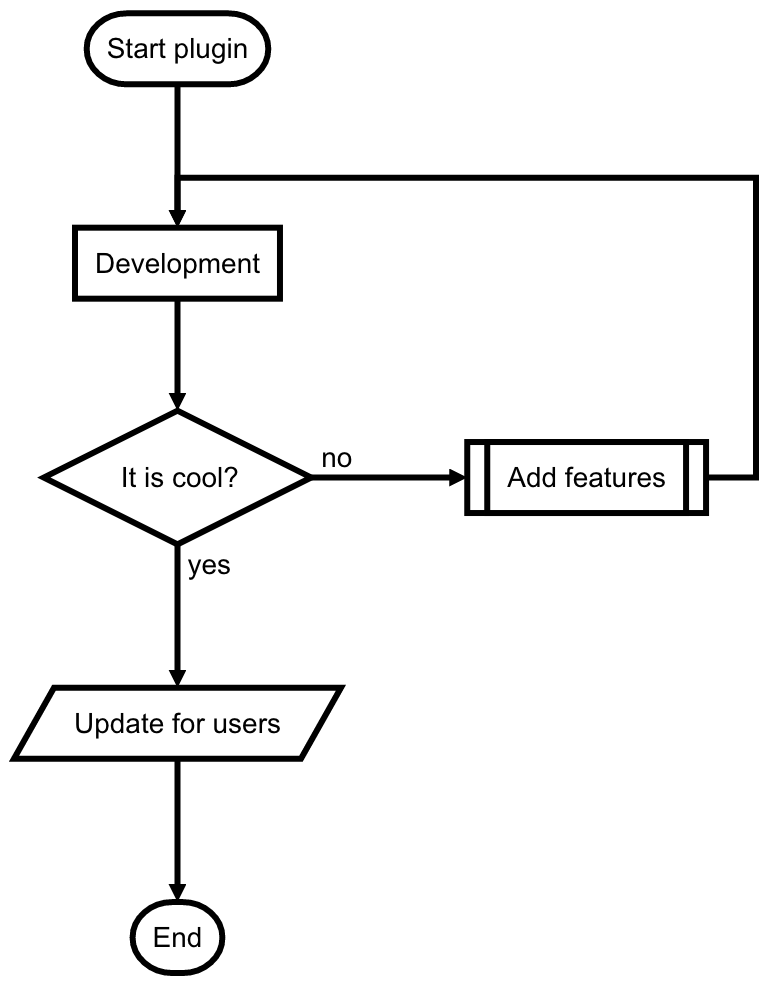
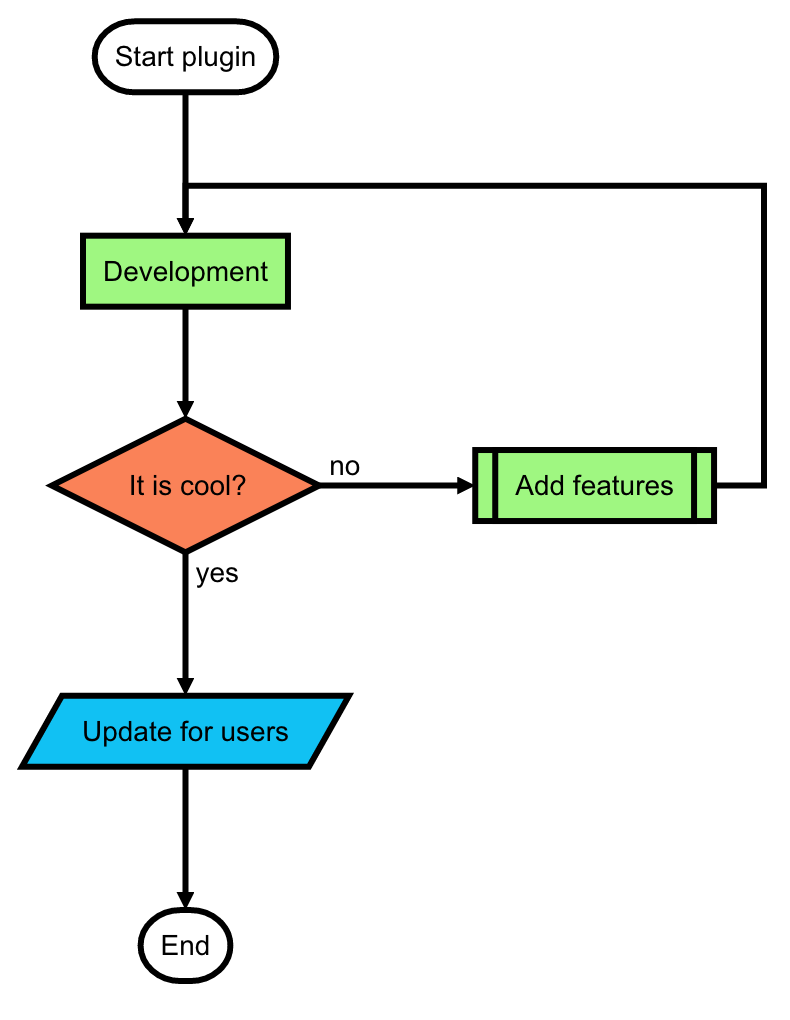
Added color support for flow diagrams

Changed region(s): [[0.0, 0.0, 0.9948, 1.0]]

diff --git a/diagrams.php b/diagrams.php
@@ -116,6 +116,12 @@ class DiagramsPlugin extends Plugin
     {
         // Variables
         $this->theme = $this->config->get('plugins.diagrams.theme');
+        $this->font_size = $this->config->get('plugins.diagrams.font.size');
+        $this->font_color = $this->config->get('plugins.diagrams.font.color');
+        $this->line_color = $this->config->get('plugins.diagrams.line.color');
+        $this->element_color = $this->config->get('plugins.diagrams.line.color');
+        $this->condition_yes = $this->config->get('plugins.diagrams.condition.yes');
+        $this->condition_no = $this->config->get('plugins.diagrams.condition.no');
 
         // Resources for the conversion
         $this->grav['assets']->addJs('plugin://diagrams/js/underscore-min.js');
@@ -123,8 +129,6 @@ class DiagramsPlugin extends Plugin
         $this->grav['assets']->addJs('plugin://diagrams/js/raphael-min.js');
         $this->grav['assets']->addJs('plugin://diagrams/js/sequence-diagram-min.js');
         $this->grav['assets']->addJs('plugin://diagrams/js/flowchart-latest.js');
-
-        $this->theme = $this->config->get('plugins.diagrams.theme');
 
         // Used to start the conversion of the div "diagram" when the page is loaded
         $init = "$(document).ready(function() {
@@ -135,7 +139,25 @@ class DiagramsPlugin extends Plugin
                         var data = parent[i].innerHTML.replace(/&lt;/g, '<').replace(/&gt;/g, '>');
                         parent[i].innerHTML = \"\";
                         var chart = flowchart.parse(data);
-                        chart.drawSVG('canvas_'+i);
+                        chart.drawSVG('canvas_'+i, {
+                            'font-size': ".$this->font_size.",
+                            'font-color': '".$this->font_color."',
+                            'line-color': '".$this->line_color."',
+                            'element-color': '".$this->element_color."',
+                            'yes-text': '".$this->condition_yes."',
+                            'no-text': '".$this->condition_no."',
+
+                            // More informations : http://flowchart.js.org
+                            'flowstate' : {
+                                'simple': {'fill' : '#FFFFFF'},
+                                'positive': {'fill' : '#387EF5'},
+                                'success': { 'fill' : '#9FF781'},
+                                'invalid': {'fill' : '#FA8258'},
+                                'calm': {'fill' : '#11C1F3'},
+                                'royal': {'fill' : '#CF86E9'},
+                                'energized': {'fill' : 'F3FD60'},
+                            }
+                        });
                     }
                  });";
         $this->grav['assets']->addInlineJs($init);

diff --git a/README.md b/README.md
@@ -42,10 +42,10 @@ eg:
 	[flow]
 	st=>start: Start plugin
 	e=>end: End
-	op1=>operation: Development
-	sub1=>subroutine: Add features
-	cond=>condition: It is cool?
-	io=>inputoutput: Update for users
+	op1=>operation: Development|success
+	sub1=>subroutine: Add features|success
+	cond=>condition: It is cool?|invalid
+	io=>inputoutput: Update for users|calm
 
 	st->op1->cond
 	cond(yes)->io->e
@@ -64,14 +64,34 @@ The plugin will transform this sequence to display the following diagram:
 You can parameterize the plugin to suit your usage
 
 ```yaml
-enabled: true
-theme: simple # hand
-align: center
-```
+# General settings
+# ****************
 
-- `enabled : true / false` Define if the plugin is active
-- `theme : simple / hand` Define the sequence diagrams theme
-- `align : left / center / right` Define the diagrams position
+enabled: true	# Plugin activation
+align: center	# Position of diagrams [left, center, right]
+
+# Settings of sequence diagrams
+# ****************
+
+theme: simple # Diagrams' themes [simple, hand]
+
+# Settings of flow diagrams
+# ****************
+
+font:
+  size: 14		# General font size
+  color: black	# General font color
+
+line:
+  color: black	# General color of lines
+
+element:
+  color: black	# General border color of elements
+
+condition:
+  yes: yes		# Default text for the arrows of positive condition
+  no: no		# Default text for the arrows of negative condition
+```
 
 # Updating
 
